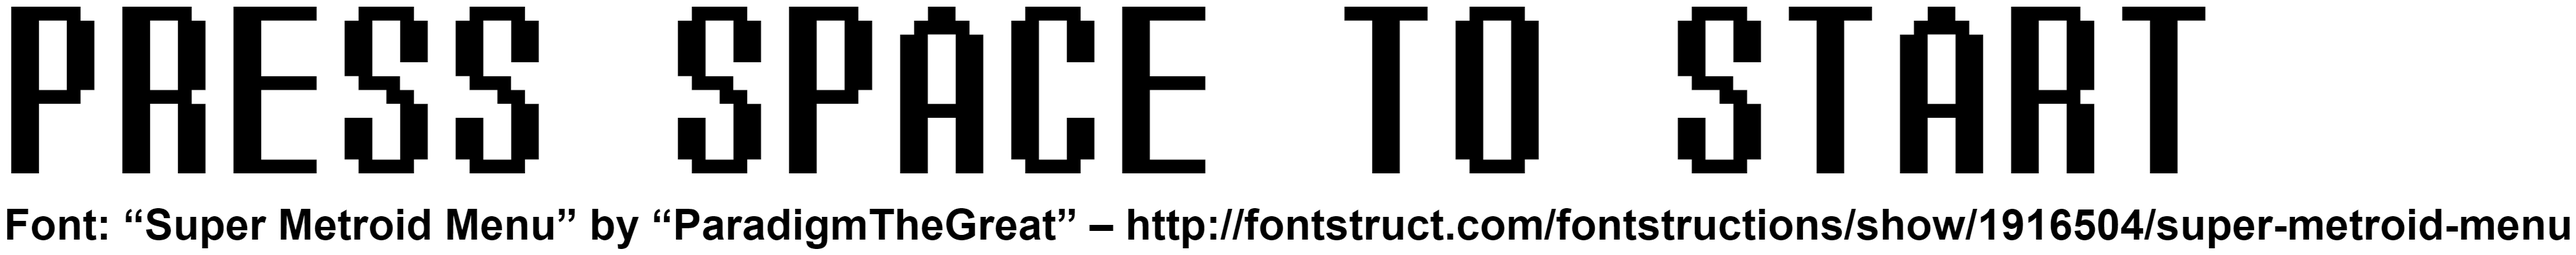
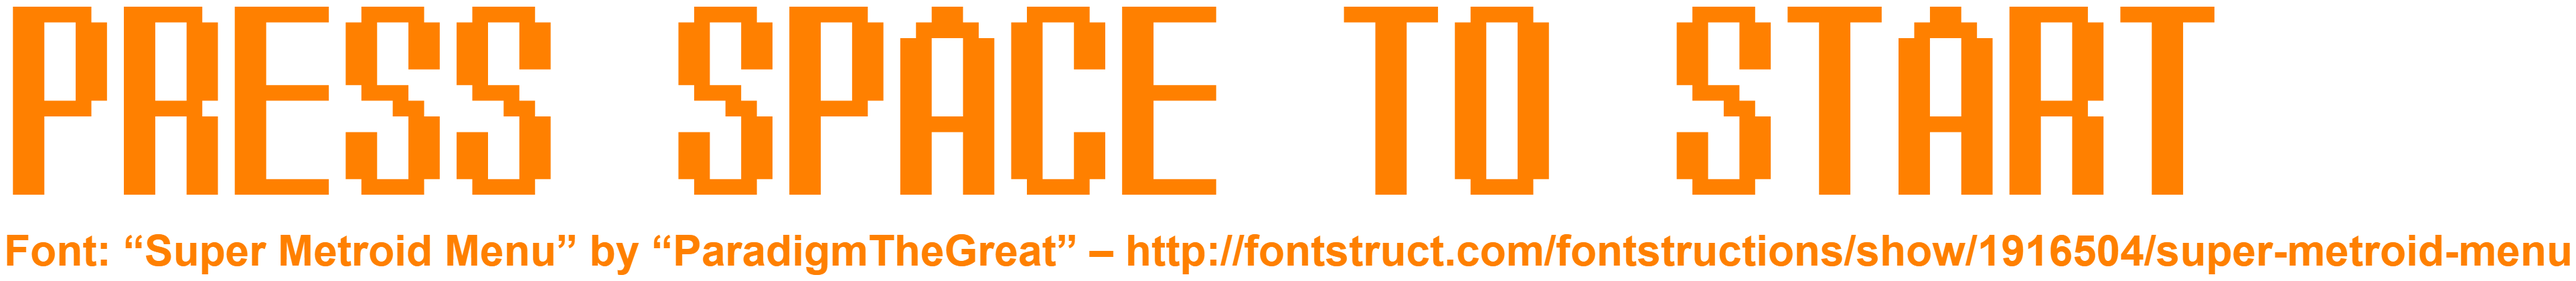
intro screen

diff --git a/intro.js b/intro.js
@@ -16,7 +16,7 @@ function intro(ctx) {
     if (g_doClear) util.clearCanvas(ctx);
 
     ctx.drawImage(backGround,0,0,g_canvas.width,g_canvas.height);
-    ctx.drawImage(text,17,10,3294,258,g_canvas.width/3,4*g_canvas.height/5,g_canvas.width/3,64)
+    ctx.drawImage(text,17,10,3294,290,2*g_canvas.width/7,4*g_canvas.height/5,3*g_canvas.width/7,64)
 
     if(cnt === 0)ctx.font = "50px Arial";
     else if(cnt === 15)ctx.font = "55px Arial";
